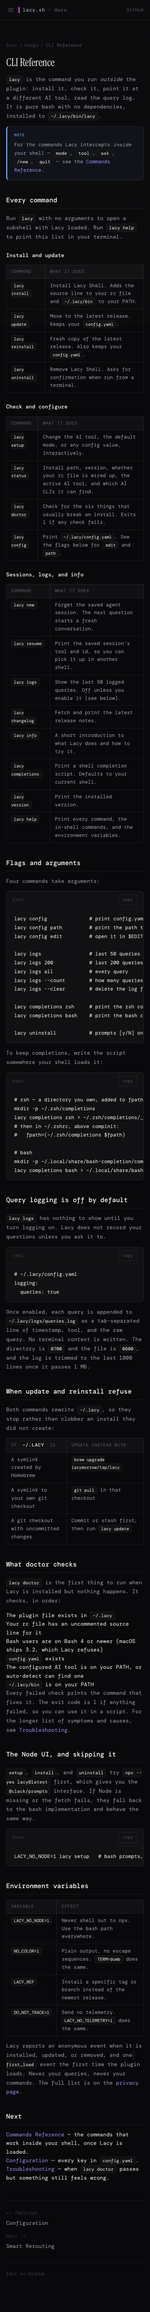
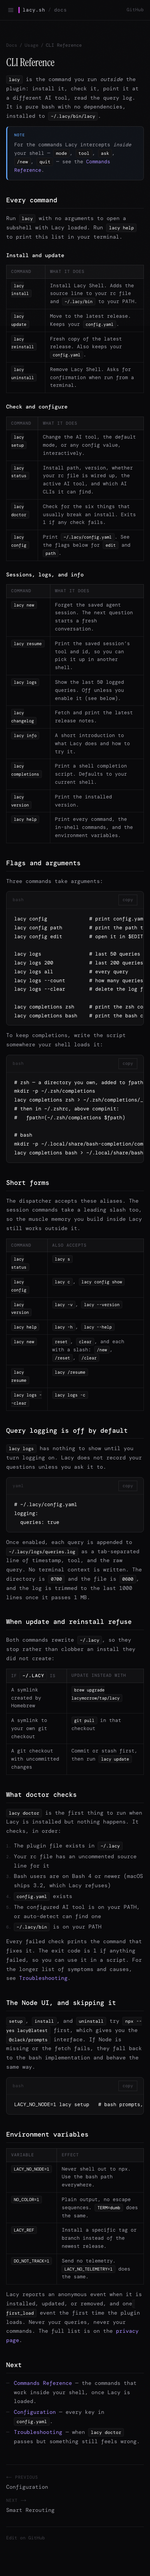
fix(docs): doc-list classes, author dates, aliases table [LAC-5591]
Code review on PR #33.

Blocking: the doctor-checks and Next lists used a bare <ul>. Tailwind v4
preflight strips list markers, so both rendered with no marker, no indent
and the wrong type size. Every other docs list uses doc-list (12 call
sites). The doctor list is now <ol className="doc-list doc-list-ol">,
since the sentence above it says 'in order'.

Taking the rest of the review too:

- lastmod.mjs reads %as, not %cs. A rebase rewrites committer dates and
  would mark the whole site freshly edited, the same false signal this
  script exists to remove. No date changed when regenerated.
- The sitemap FALLBACK was a hardcoded 2026-05-11, so a route added
  without rerunning the generator would enter the sitemap claiming to be
  five months old. It is the build date now.
- 'Four commands take arguments' counted uninstall, which takes none.
  Three, and the uninstall line is gone from that block; the table
  already says it asks for confirmation.
- Added a Short forms table: s, c, -v, --version, -h, --help, reset,
  clear, the slash forms of new/reset/clear/resume, and logs -c. All
  verified against the dispatcher in bin/lacy.

Screenshots updated.

Changed region(s): [[0.0308, 0.0, 0.9538, 0.9679], [0.8615, 0.0312, 0.8923, 0.0624]]

diff --git a/app/docs/content/cli-reference.tsx b/app/docs/content/cli-reference.tsx
@@ -142,7 +142,7 @@ export default function CliReference() {
 
       <section>
         <h2>Flags and arguments</h2>
-        <p>Four commands take arguments:</p>
+        <p>Three commands take arguments:</p>
         <DocsCodeBlock lang="bash">
           {`lacy config              # print config.yaml
 lacy config path         # print the path to config.yaml
@@ -155,9 +155,7 @@ lacy logs --count        # how many queries are logged
 lacy logs --clear        # delete the log file
 
 lacy completions zsh     # print the zsh completion script
-lacy completions bash    # print the bash completion script
-
-lacy uninstall           # prompts [y/N] on a terminal, never when piped`}
+lacy completions bash    # print the bash completion script`}
         </DocsCodeBlock>
         <p>To keep completions, write the script somewhere your shell loads it:</p>
         <DocsCodeBlock lang="bash">
@@ -171,6 +169,54 @@ lacy completions zsh > ~/.zsh/completions/_lacy
 mkdir -p ~/.local/share/bash-completion/completions
 lacy completions bash > ~/.local/share/bash-completion/completions/lacy`}
         </DocsCodeBlock>
+      </section>
+
+      <section>
+        <h2>Short forms</h2>
+        <p>
+          The dispatcher accepts these aliases. The session commands take a leading slash too, so
+          the muscle memory you build inside Lacy still works outside it.
+        </p>
+        <div className="doc-table-wrap">
+          <table className="doc-table">
+            <thead>
+              <tr>
+                <th>Command</th>
+                <th>Also accepts</th>
+              </tr>
+            </thead>
+            <tbody>
+              <tr>
+                <td><code>lacy status</code></td>
+                <td><code>lacy s</code></td>
+              </tr>
+              <tr>
+                <td><code>lacy config</code></td>
+                <td><code>lacy c</code>, <code>lacy config show</code></td>
+              </tr>
+              <tr>
+                <td><code>lacy version</code></td>
+                <td><code>lacy -v</code>, <code>lacy --version</code></td>
+              </tr>
+              <tr>
+                <td><code>lacy help</code></td>
+                <td><code>lacy -h</code>, <code>lacy --help</code></td>
+              </tr>
+              <tr>
+                <td><code>lacy new</code></td>
+                <td><code>reset</code>, <code>clear</code>, and each with a slash: <code>/new</code>, <code>/reset</code>, <code>/clear</code></td>
+              </tr>
+              <tr>
+                <td><code>lacy resume</code></td>
+                <td><code>lacy /resume</code></td>
+              </tr>
+              <tr>
+                <td><code>lacy logs --clear</code></td>
+                <td><code>lacy logs -c</code></td>
+              </tr>
+            </tbody>
+          </table>
+        </div>
       </section>
 
       <section>
@@ -230,14 +276,14 @@ logging:
           <code>lacy doctor</code> is the first thing to run when Lacy is installed but nothing
           happens. It checks, in order:
         </p>
-        <ul>
+        <ol className="doc-list doc-list-ol">
           <li>The plugin file exists in <code>~/.lacy</code></li>
           <li>Your rc file has an uncommented source line for it</li>
           <li>Bash users are on Bash 4 or newer (macOS ships 3.2, which Lacy refuses)</li>
           <li><code>config.yaml</code> exists</li>
           <li>The configured AI tool is on your PATH, or auto-detect can find one</li>
           <li><code>~/.lacy/bin</code> is on your PATH</li>
-        </ul>
+        </ol>
         <p>
           Every failed check prints the command that fixes it. The exit code is 1 if anything
           failed, so you can use it in a script. For the longer list of symptoms and causes, see{" "}
@@ -298,7 +344,7 @@ logging:
 
       <section>
         <h2>Next</h2>
-        <ul>
+        <ul className="doc-list">
           <li>
             <Link href="/docs/commands-reference">Commands Reference</Link> &mdash; the commands
             that work inside your shell, once Lacy is loaded.

diff --git a/app/sitemap.ts b/app/sitemap.ts
@@ -9,9 +9,11 @@ const BASE = "https://lacy.sh";
 // told Google the whole docs section had been untouched since May.
 const DATES: Record<string, string> = lastmod;
 
-// Oldest real commit in the repo. Only used if a page has no recorded date,
-// which means someone added a route without rerunning the generator.
-const FALLBACK = "2026-05-11";
+// Only reached when a page has no recorded date, which means a route was added
+// without rerunning the generator. Such a page is new, so the build date is the
+// honest guess — a hardcoded old date would understate it by however long the
+// constant has been sitting here, which is the bug this file just fixed.
+const FALLBACK = new Date().toISOString().slice(0, 10);
 
 function modified(...sources: string[]): string {
   const dates = sources.map((s) => DATES[s]).filter(Boolean);
